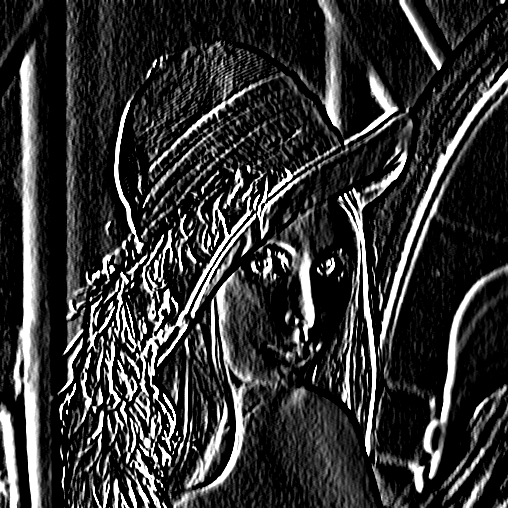
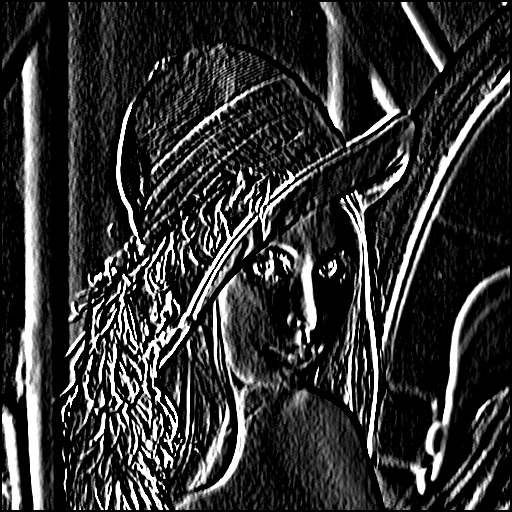
Improved convolution method
* Convolution method now returns a matrix with thr same dimensions of the input matrix

diff --git a/lab2.py b/lab2.py
@@ -18,6 +18,20 @@ import copy
 import sys
 
 
+def fillWithZeros(matrix, kernel):
+    dim = int(len(kernel)/ 2)
+    for row in matrix:
+        for i in range(0,dim):
+            row.insert(0,0)
+            row.append(0)
+    
+    zeroRow = [0 for i in range(0,len(matrix[0]))]
+    for j in range(0,dim):
+        matrix.insert(0,zeroRow)
+        matrix.append(zeroRow)
+    return matrix
+
+
 
 # Parte 1: Definir funcion de convolucion, en el caso problematico de los bordes, estos valores seran recortados 
 
@@ -27,7 +41,7 @@ def convolve(matrix, kernel):
     rowlen = len(matrix[0])
     collen = len(matrix)
     kerrow = len(kernel[0])
-    kercol = len(kernel[0])
+    kercol = len(kernel)
 
     for b in range(kercol -1, collen):
         auxrow = []
@@ -45,6 +59,7 @@ def convolve(matrix, kernel):
                 value = 0
             auxrow.append(value)
         convoluted.append(auxrow)
+    convoluted = fillWithZeros(convoluted,kernel)
     convoluted = np.array(convoluted)
     return convoluted
 
@@ -85,7 +100,7 @@ def convolutionTest(matrix,kernelCol,kernelRow):
     rowStart = int(kernelRow/2)
     for n in range(colstart,len(matrix) - colstart):
         for m in range(rowStart,len(matrix[0]) - rowStart):
-            if(matrix[n][m] != convoluted[n-colstart][m-rowStart]):
+            if(matrix[n][m] != convoluted[n][m]):
                 print("No se realiza la convolucion adecuadamente")
                 return False
     
@@ -127,9 +142,9 @@ if __name__ == "__main__":
     realImage = ImageObject("lena512.bmp")
     gaussImage = copy.deepcopy(realImage)
     edgeImage = copy.deepcopy(realImage)
-    ed2 = ImageObject("im1.png")
+    #ed2 = ImageObject("im1.png")
 
-    #convolutionTest(realImage.imageMatrix,5,5)
+    convolutionTest(realImage.imageMatrix,5,5)
 
     gaussKer= np.array([[1,4,6,4,1],
                         [4, 16, 24, 16, 4],
